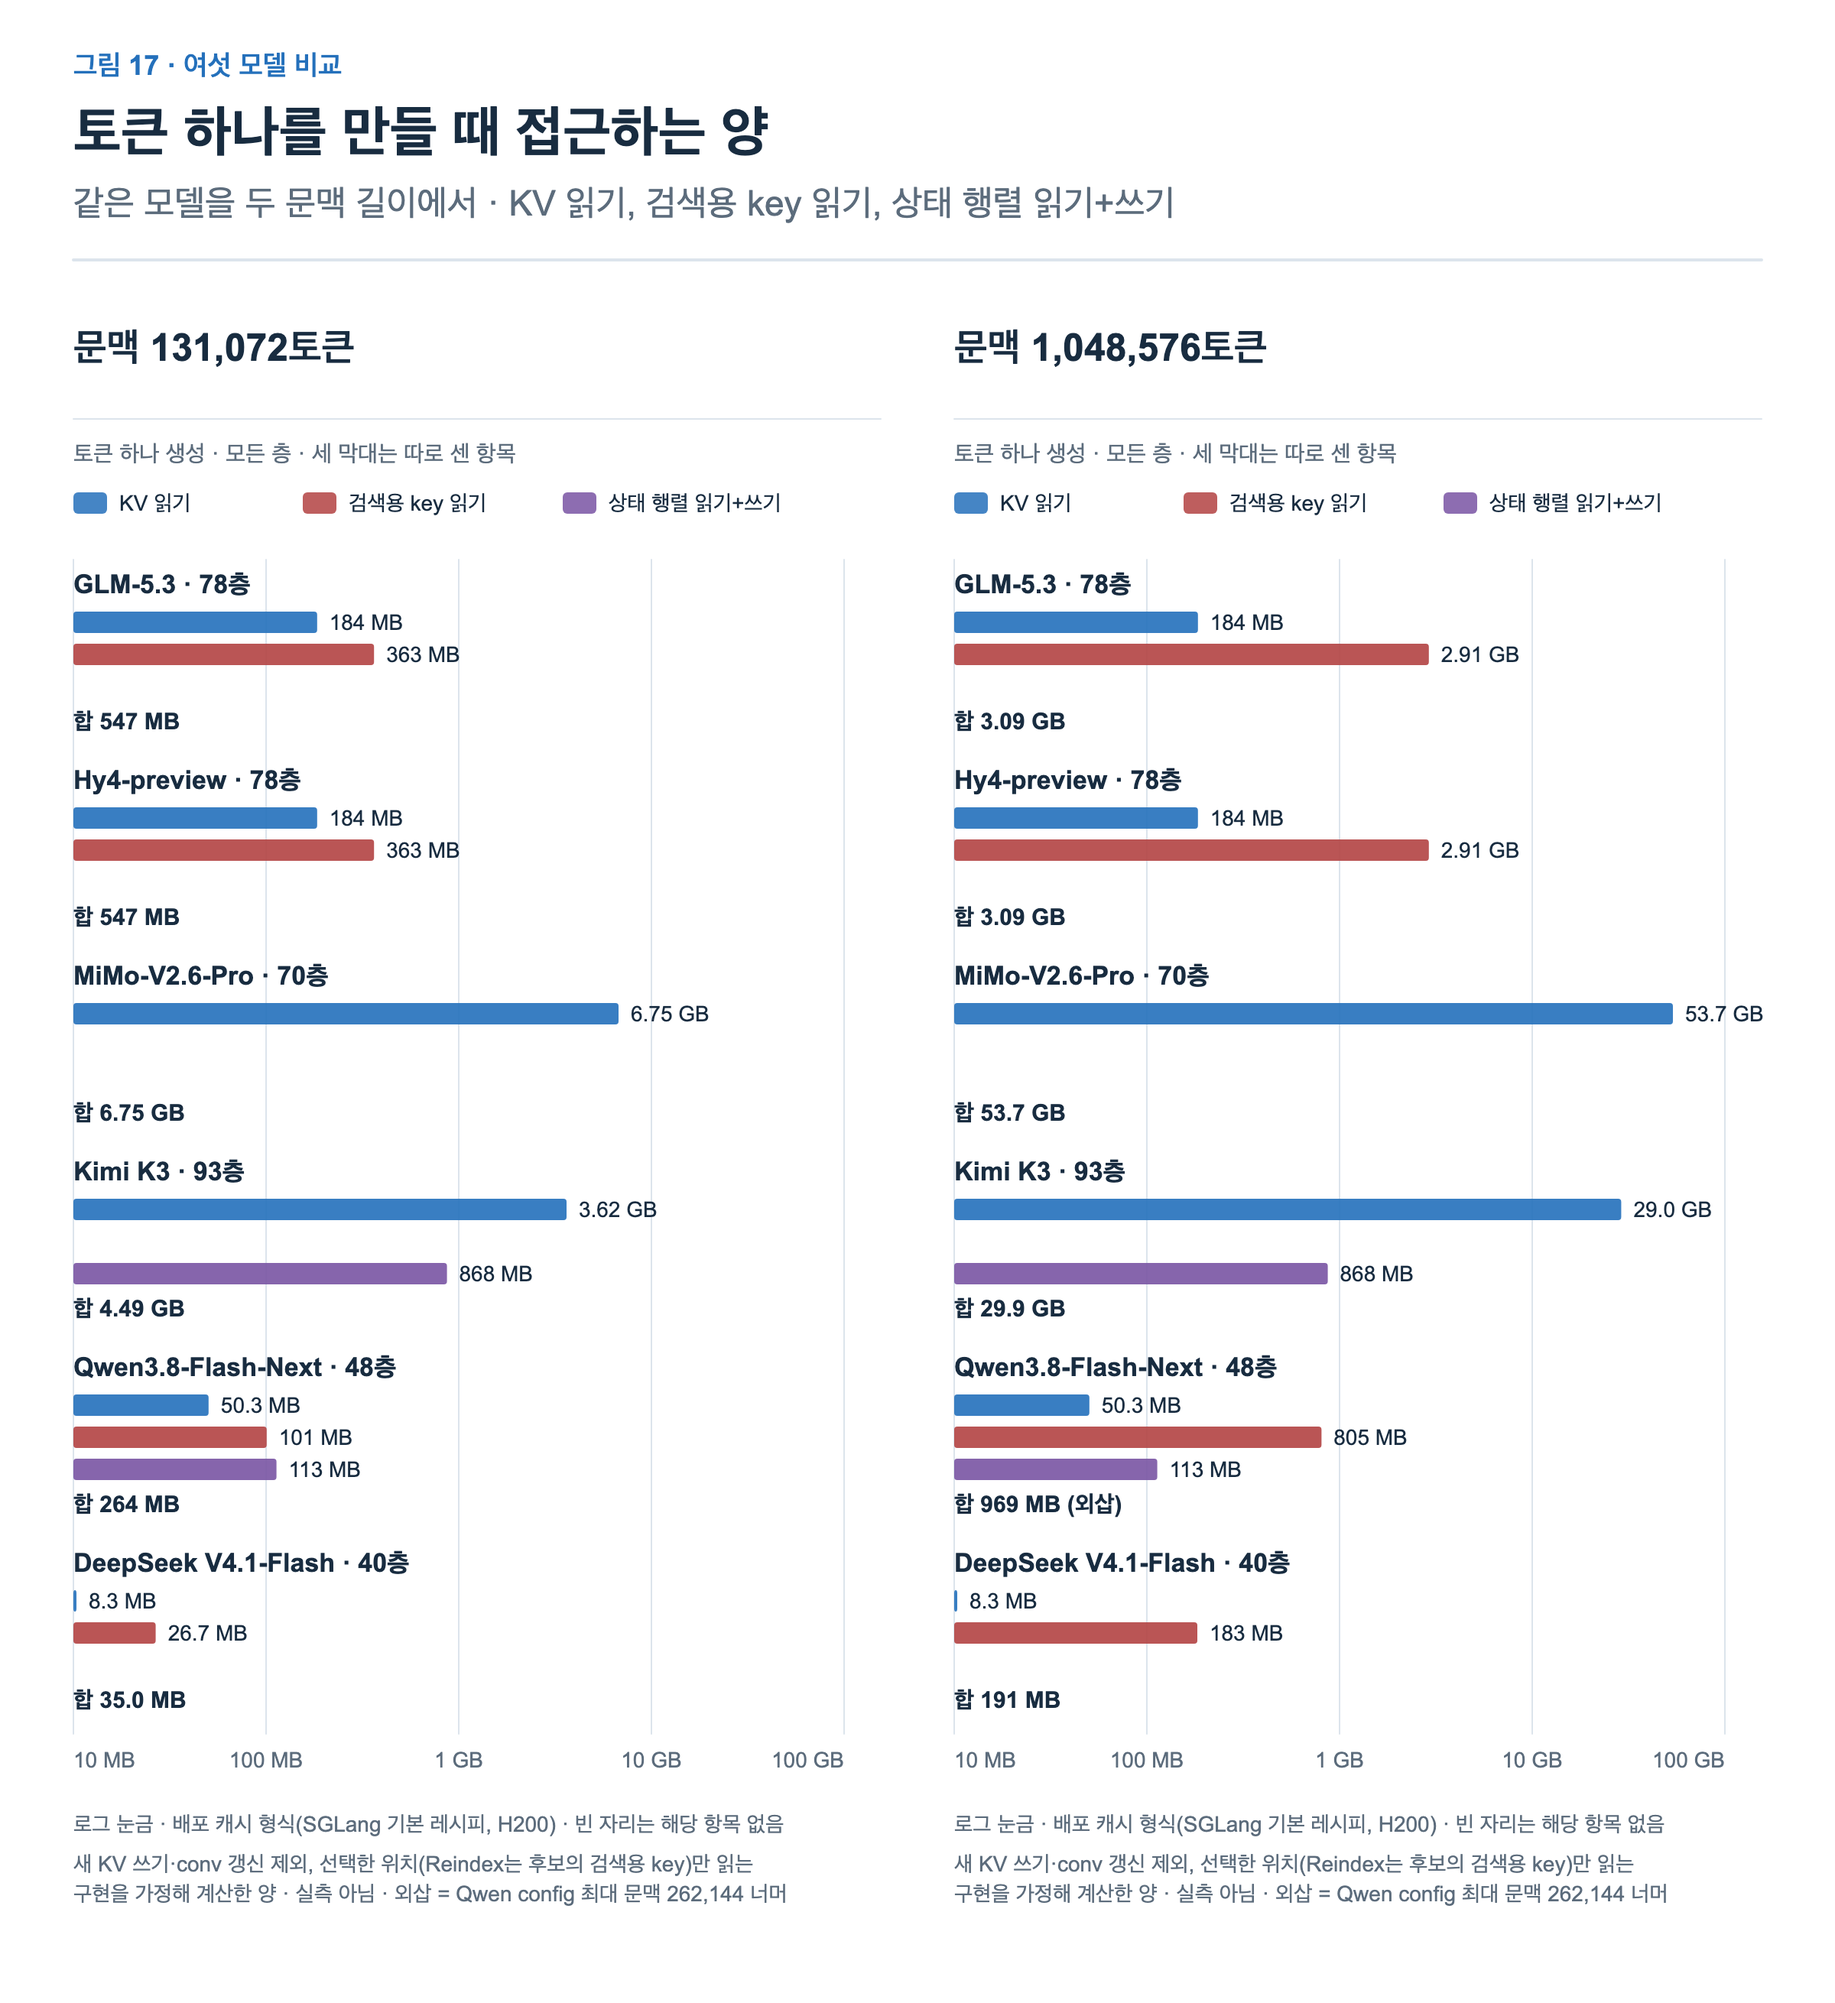
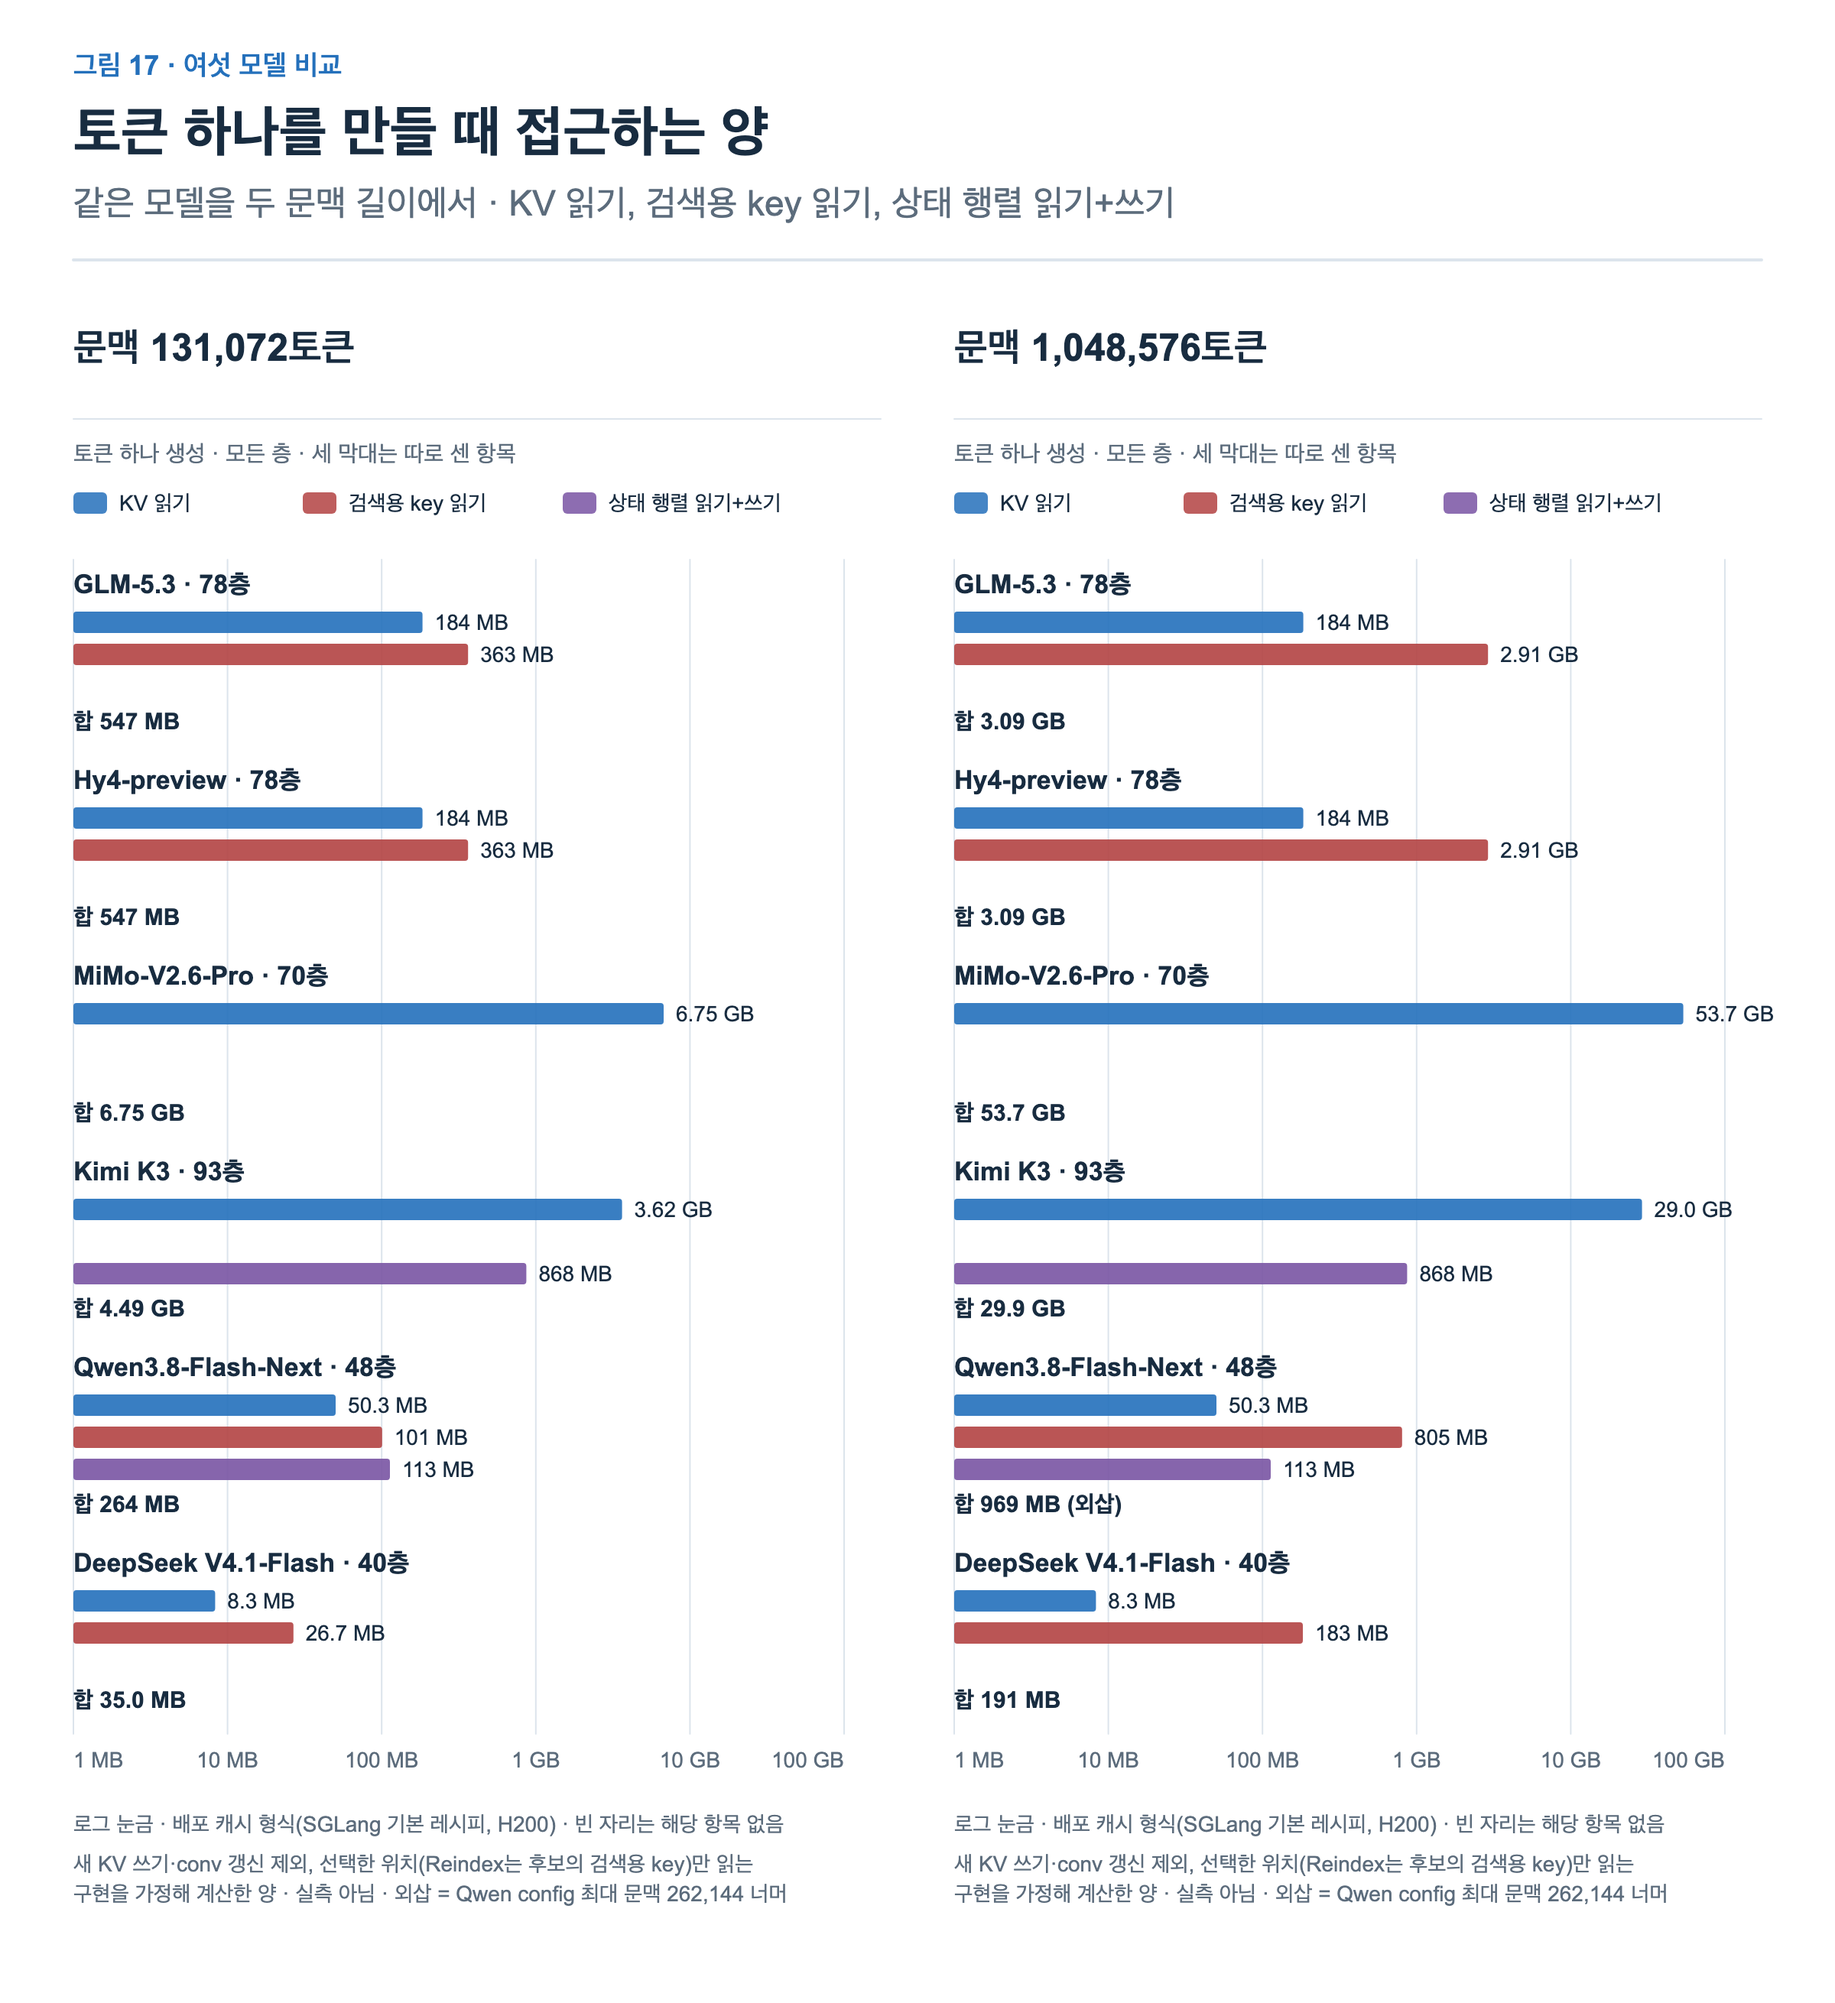
Apply reader review cycle 4 to the open models feature
Explain the BF16 fold's state precision, the two Kimi crossover points,
Qwen's KV width and DeepSeek's entry count; let the access axis start at 1 MB
so DeepSeek's KV bar is on scale.

diff --git a/src/data/figures/open-models-kv-cache/drawing.ts b/src/data/figures/open-models-kv-cache/drawing.ts
@@ -8,7 +8,7 @@ export {L};
 // Right: what one output token touches at 131,072 positions, as three independent bars (KV read, search-key
 // read, recurrent matrix read + write). The bars are not stacked: on a log axis a stacked part would not be
 // readable as bytes. Section guides reuse the figure with some models in focus.
-const AX={store:{lo:2,hi:6,ticks:['100 B','1 kB','10 kB','100 kB','1 MB']},access:{lo:7,hi:11,ticks:['10 MB','100 MB','1 GB','10 GB','100 GB']}};
+const AX={store:{lo:2,hi:6,ticks:['100 B','1 kB','10 kB','100 kB','1 MB']},access:{lo:6,hi:11,ticks:['1 MB','10 MB','100 MB','1 GB','10 GB','100 GB']}};
 const PARTS=[{k:'kv',c:C.blue,t:L('KV 읽기','KV read')},{k:'index',c:C.red,t:L('검색용 key 읽기','search-key read')},{k:'state',c:C.purple,t:L('상태 행렬 읽기+쓰기','state matrix read + write')}] as const;
 const ROW=128,W=528;
 export type Opt={focus?:Key[];n?:number};
